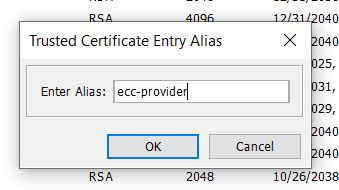
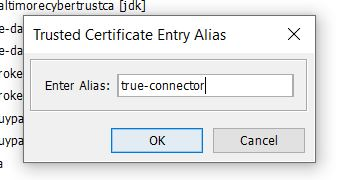
New alias name for certificate
Explained hostname validation functionality, how to set it up

diff --git a/TESTBED.md b/TESTBED.md
@@ -57,6 +57,22 @@ application.usageControlVersion=platoon
 application.encodePayload=true
 ```
 
+### Enabling hostname validation
+
+In order to enable this functionality, following changes are required:
+
+**.env** file 
+
+```
+DISABLE_SSL_VALIDATION=false
+
+TRUSTORE_NAME=truststoreEcc.jks
+TRUSTORE_PASSWORD=allpassword
+
+```
+
+This will load certificates from truststore and when making https call towards target system, certificate will be validated against truststore, and if certificate is present and valid, call will be successful, otherwise you will get PKIX exception.
+
 ### Docker networking
 
 Since we are running 2 separate docker containers, one for Testbed and other for TrueConnector, we must connect those 2 environments, so that they could communicate, and "see each other". For example, DAPS is mandatory service, for both environments and it is deployed in Testbed docker container, and by default, not reachable in TrueConnector.
@@ -107,7 +123,7 @@ Open DSC truststore file *truststore.p12* (IDS-testbed\DataspaceConnectorA\conf\
 
 ![Truststore](doc/testbed/Import_TC_Certificate.jpg "Import TrueConnector Certificate")
 
-and provide alias *ecc-provider*
+and provide alias *true-connector*
 
 ![Truststore Alias](doc/testbed/Import_TC_Certificate_alias.jpg "Import TrueConnector Certificate alias")
 
